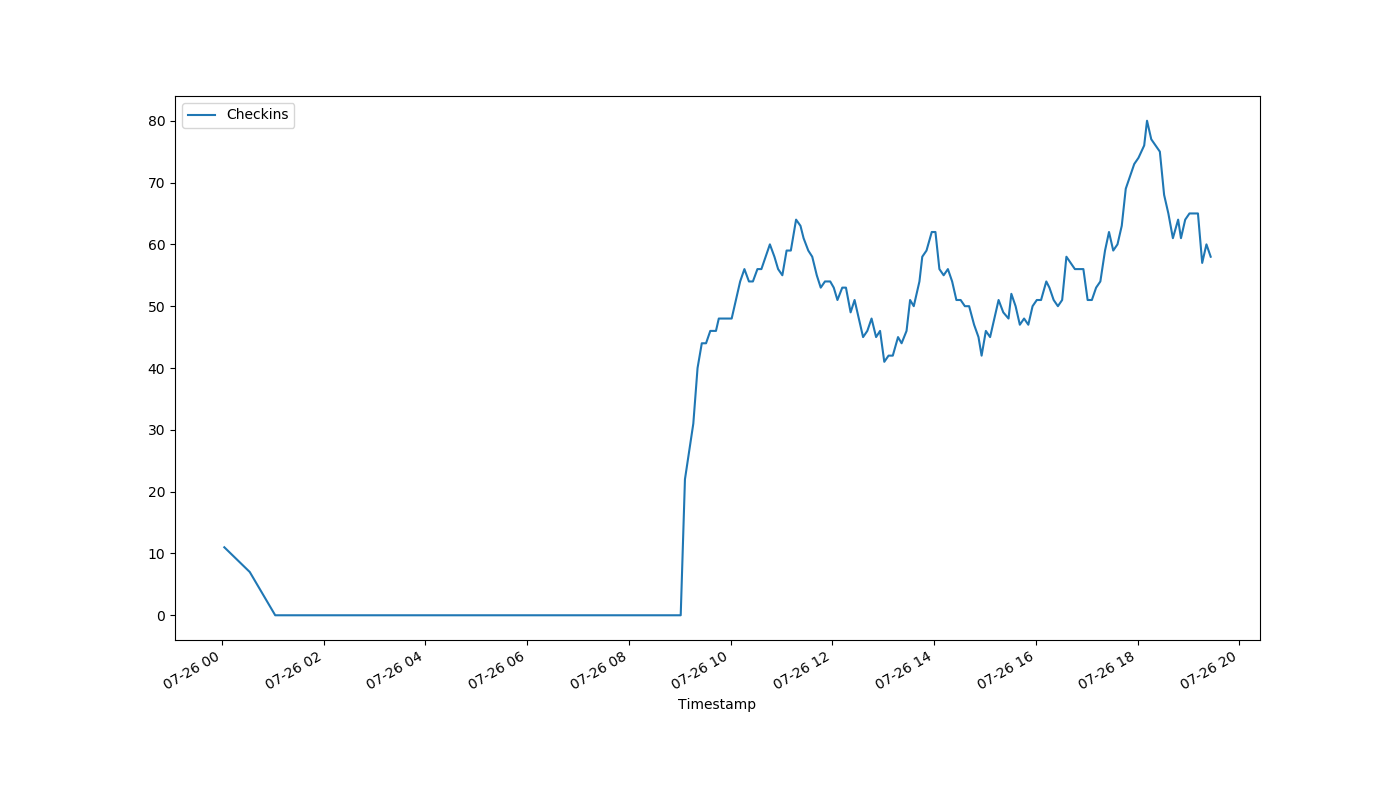
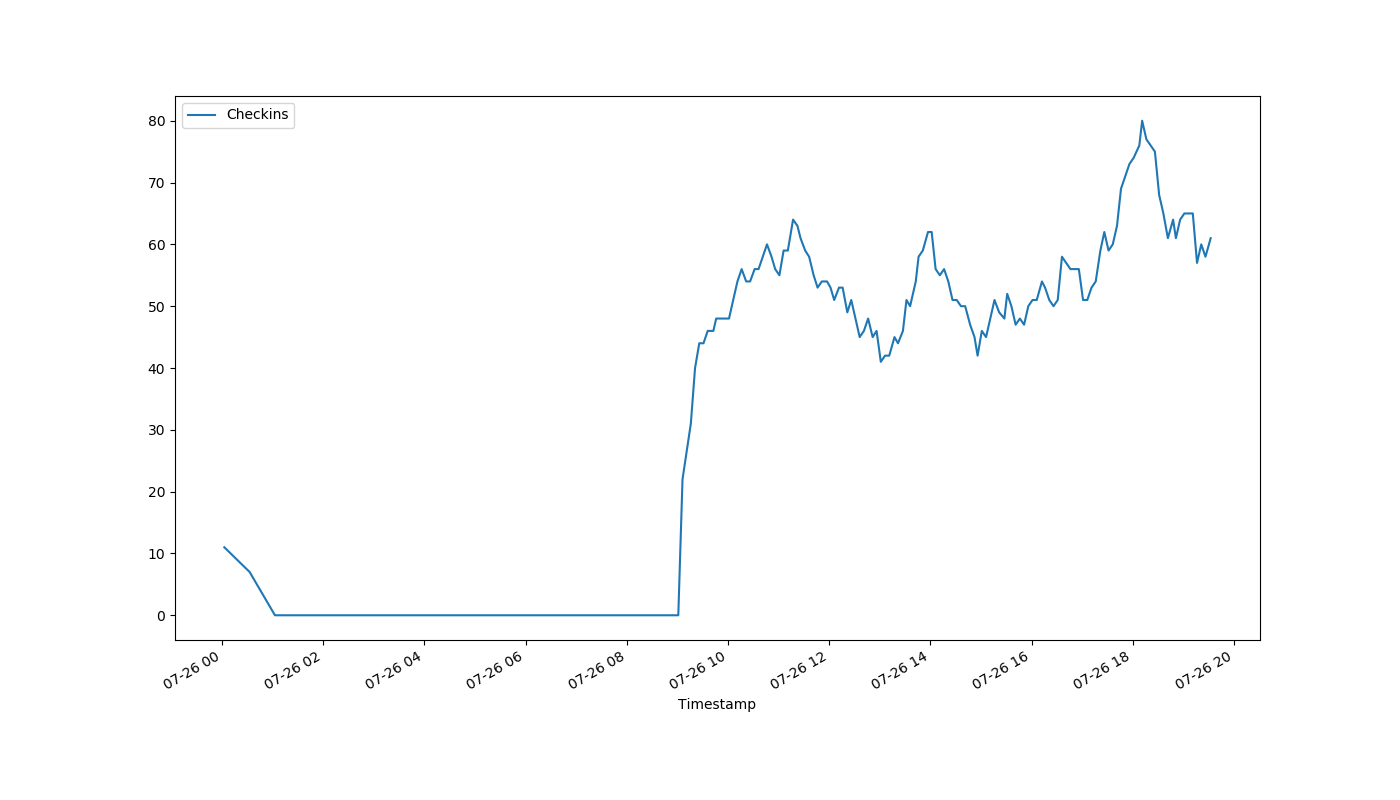
auto-Jul-26-19:33:44

diff --git a/index.html b/index.html
@@ -1,1 +1,1 @@
-<!DOCTYPE html><html><head><meta http-equiv="refresh" content="30"><link rel='stylesheet' href='holmcurrent.css'></head><body><p id='count'>58</p><div id='graph-wrap'><img id='graph' src='holmgraph-Jul-26.png'></div><p id='updated'>Last updated 19:26:17 / 19:26:12</p></body></html>
+<!DOCTYPE html><html><head><meta http-equiv="refresh" content="30"><link rel='stylesheet' href='holmcurrent.css'></head><body><p id='count'>61</p><div id='graph-wrap'><img id='graph' src='holmgraph-Jul-26.png'></div><p id='updated'>Last updated 19:33:18 / 19:32:23</p></body></html>
